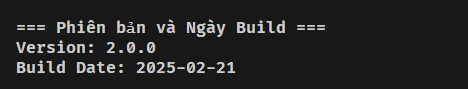
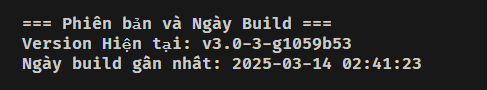
Update readme and small changes in read and save data

Changed region(s): [[0.0299, 0.1573, 0.8675, 0.8315]]

diff --git a/app.py b/app.py
@@ -5,7 +5,6 @@ import logging
 from datetime import datetime
 from validators import validate_email, validate_phone, validate_date, validate_index, validate_non_empty, validate_gender, validator_transition_states
 import subprocess
-from datetime import datetime
 from datetime import timedelta 
 
 logging.basicConfig(level=logging.INFO,
@@ -13,10 +12,22 @@ logging.basicConfig(level=logging.INFO,
                     filemode="a",
                     format="%(asctime)s - %(levelname)s - %(message)s")
 
+def load_list_from_file(filepath):
+    """
+    Đọc file txt và trả về danh sách các dòng không rỗng.
+    """
+    if os.path.exists(filepath):
+        with open(filepath, "r", encoding="utf-8") as f:
+            return [line.strip() for line in f if line.strip()]
+    else:
+        return []
+    
 CSV_FILE = 'students.csv'
 CONFIG_FILE = 'overall_config.txt'
 
-FACULTIES = ["Khoa Luật", "Khoa Tiếng Anh thương mại", "Khoa Tiếng Nhật", "Khoa Tiếng Pháp"]
+FACULTIES = load_list_from_file("allowed_faculties.txt")
+
+PROGRAMS = load_list_from_file("allowed_programs.txt")
 
 def load_student_statuses(filepath="allowed_status_transitions.txt"):
     statuses = []
@@ -43,7 +54,7 @@ def load_student_statuses(filepath="allowed_status_transitions.txt"):
 
 STATUSES, RULES = load_student_statuses()
 
-PROGRAMS = ["đại trà", "chất lượng cao", "tiên tiến", "việt pháp"]
+
 
 students = []
 
@@ -83,18 +94,53 @@ def load_students():
         except Exception as e:
             logging.error(f"Lỗi khi load dữ liệu từ CSV: {e}")
 
-def save_students():
-    global students
+def save_all(): 
+    global students, PROGRAMS, FACULTIES, STATUSES
+
     try:
         with open(CSV_FILE, mode='w', encoding='utf-8', newline='') as file:
-            fieldnames = ['mssv', 'ho_ten', 'ngay_sinh', 'gioi_tinh', 'khoa', 'khoa_hoc', 'chuong_trinh', 'dia_chi', 'email', 'so_dien_thoai', 'tinh_trang', 'creation_time']
+            fieldnames = ['mssv', 'ho_ten', 'ngay_sinh', 'gioi_tinh', 'khoa', 'khoa_hoc', 'chuong_trinh', 
+                          'dia_chi', 'email', 'so_dien_thoai', 'tinh_trang', 'creation_time']
             writer = csv.DictWriter(file, fieldnames=fieldnames)
             writer.writeheader()
             for student in students:
                 writer.writerow(student)
         logging.info("Lưu dữ liệu sinh viên vào file CSV thành công.")
+
+        with open("allowed_programs.txt", mode='w', encoding='utf-8') as file:
+            for program in PROGRAMS:
+                file.write(f"{program}\n")
+        logging.info("Lưu danh sách chương trình đào tạo vào allowed_programs.txt thành công.")
+
+        with open("allowed_faculties.txt", mode='w', encoding='utf-8') as file:
+            for faculty in FACULTIES:
+                file.write(f"{faculty}\n")
+        logging.info("Lưu danh sách khoa vào allowed_faculties.txt thành công.")
+
+        with open("allowed_status_transitions.txt", mode='r', encoding='utf-8') as file:
+            lines = file.readlines()
+
+        if lines:
+            try:
+                n = int(lines[0].strip())
+                m_index = n + 1 
+                m = int(lines[m_index].strip())  
+                rules = lines[m_index+1:]  
+            except (ValueError, IndexError):
+                logging.error("Lỗi khi đọc allowed_status_transitions.txt, reset lại file.")
+                n, m, rules = 0, 0, []
+
+        with open("allowed_status_transitions.txt", mode='w', encoding='utf-8') as file:
+            file.write(f"{len(STATUSES)}\n")  
+            for status in STATUSES:
+                file.write(f"{status}\n")  
+            file.write(f"{m}\n") 
+            file.writelines(rules)  
+        logging.info("Lưu danh sách trạng thái sinh viên vào allowed_status_transitions.txt thành công.")
+
     except Exception as e:
-        logging.error(f"Lỗi khi lưu dữ liệu vào CSV: {e}")
+        logging.error(f"Lỗi khi lưu dữ liệu vào file: {e}")
+
 
 def input_validated(prompt, validation_func, error_msg, transform_func=None):
     while True:
@@ -741,7 +787,7 @@ def main_menu():
         elif choice == '11':
             export_status_confirmation()
         elif choice == '12':
-            save_students()
+            save_all()
             print("Kết thúc chương trình và lưu dữ liệu.")
             logging.info("Thoát ứng dụng")
             break

diff --git a/README.md b/README.md
@@ -28,16 +28,32 @@ Chương trình sử dụng python và giao diện console. **Đầy đủ các 
 
 **Version v1.0**
 1. **Thêm sinh viên mới**: Nhập thông tin của một sinh viên và lưu vào danh sách.
+   - Chọn mục "Thêm sinh viên".
+   - Nhập đầy đủ thông tin sinh viên (MSSV, Họ tên, Ngày sinh, Giới tính, v.v.), nếu trường thông tin đó không hợp lệ, sẽ cần nhập lại đến hợp lệ.
+   - Sinh viên sẽ được thêm vào danh sách nếu MSSV không bị trùng.
+   - ![Alt text](screenshots/pic1.png)
 2. **Xóa sinh viên**: Xóa thông tin sinh viên dựa trên Mã số sinh viên (MSSV).
+   - Chọn mục "Xóa sinh viên".
+   - Nhập MSSV của sinh viên cần xóa.
+   - Nếu MSSV tồn tại, sinh viên sẽ bị xóa khỏi danh sách.
+   - ![Alt text](screenshots/pic2.png)
 3. **Cập nhật thông tin sinh viên**: Cập nhật thông tin của sinh viên dựa trên MSSV.
+   - Chọn mục "Cập nhật thông tin sinh viên".
+   - Nhập MSSV của sinh viên cần cập nhật.
+   - Nếu sinh viên tồn tại, chọn trường thông tin cần cập nhật và nhập giá trị mới (các giá trị đều được validate).
+   - ![Alt text](screenshots/pic3.png)
 4. **Tìm kiếm sinh viên**: Tìm kiếm sinh viên theo họ tên hoặc MSSV.
+   - Chọn mục "Tìm kiếm sinh viên".
+   - Chọn phương thức tìm kiếm theo MSSV hoặc Họ tên và nhập từ khóa.
+   - Kết quả sẽ được hiển thị ngay trên màn hình.
+   - ![Alt text](screenshots/pic4.png)
 
 **Version v2.0**
 
 ✅ **Lưu trữ dữ liệu:**
 
-- Sử dụng **XML, JSON, CSV, Database**, hoặc hình thức lưu trữ khác (**chọn ít nhất một**).
-
+- Sử dụng **XML, JSON, CSV, Database**, hoặc hình thức lưu trữ khác (**chọn ít nhất một**) => Lưu vào file csv.
+![Alt text](screenshots/pic15.png)
 ✅ **Cho phép đổi tên & thêm mới:**
 
 - **Khoa (Faculty)**
@@ -74,7 +90,18 @@ Chương trình sử dụng python và giao diện console. **Đầy đủ các 
    - Ví dụ:  
      - `"Đang học"` → `"Bảo lưu"`, `"Tốt nghiệp"`, `"Đình chỉ"` (hợp lệ).  
      - `"Đã tốt nghiệp"` không thể quay lại `"Đang học"`.
+   
+**Version v4.0:**
+06. Chỉ được phép xóa sinh viên có creation date/time trong khoảng thời gian nhất định. Ví dụ: 30 phút (configurable) 
 
+07. Cho phép bật / tắt việc áp dụng các quy định 
+
+08. Các màn hình cần hiện logo hoặc tên Trường (ít nhất một) => Tên trường
+
+09. Cho phép xóa khoa, xóa tình trạng sinh viên, xóa chương trình đào tạo nếu không có ràng buộc về dữ liệu 
+
+10. Xuất giấy xác nhận tình trạng sinh viên ra **HTML/MD/PDF/DOCX** (ít nhất 2 định dạng) => là **HTML** và **MD**
+ 
 ## Cấu Trúc Source Code
 - **validators.py**: Chứa các hàm kiểm tra tính hợp lệ của dữ liệu (email, số điện thoại, ngày sinh, v.v.).
 - **student_manager.py**: Chứa toàn bộ logic của chương trình, bao gồm:
@@ -89,15 +116,19 @@ Chương trình sử dụng python và giao diện console. **Đầy đủ các 
 - **allowed_email_domains**: File configurable các domain email hợp lệ
 - **allowed_phone_patterns**: File configurable các số điện thoại hợp lệ
 - **allowed_status_transitions**: File configurable các tình trạng sinh viên hợp lệ
+- **build_info.txt**: chứa thông tin lần build gần nhất của app.
+- **overall_config.txt**: chứa các thông tin cần config của 1 số chức năng
+- **allowed_programs**: Thông tin các chương trình (cử nhân/thạc sĩ/tiến sĩ)
+- **allowed_faculties**: Thông tin các khoa tồn tại.
 
 ## Yêu Cầu Cài Đặt
 - **Python 3.12.2**  
-- Sử dụng các thư viện: `csv`, `json`, `logging`, `os`, `datetime`, `re`  
+- Sử dụng các thư viện: `csv`, `json`, `logging`, `os`, `datetime`, `subprocess`
 
 ## Hướng Dẫn Cài Đặt và Chạy Chương Trình
 
 1. **Download/Clone Source Code**
-   - Tải source code và giải nén vào một thư mục.
+   - Tải source code về và giải nén hoặc dùng git clone.
 
 2. **Chạy Chương Trình**
    - Mở terminal (hoặc CMD) và chuyển đến thư mục chứa file `app.py`.
